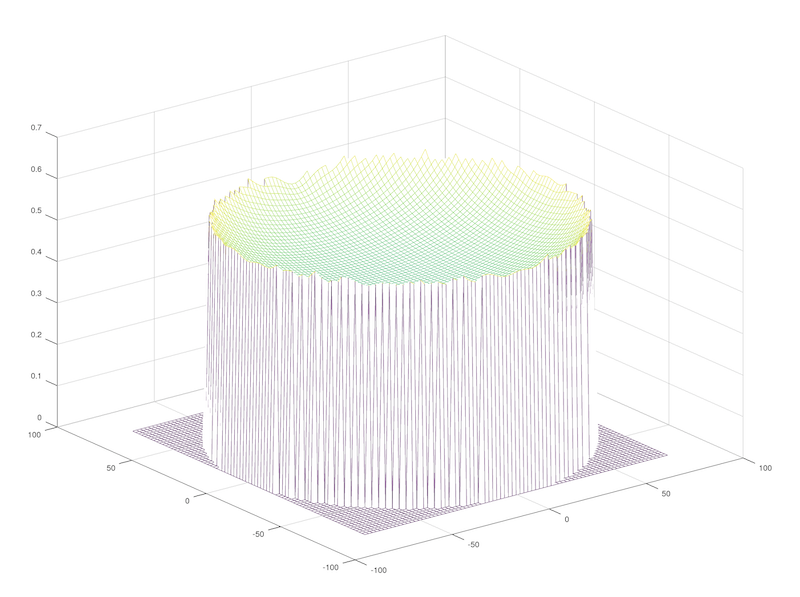
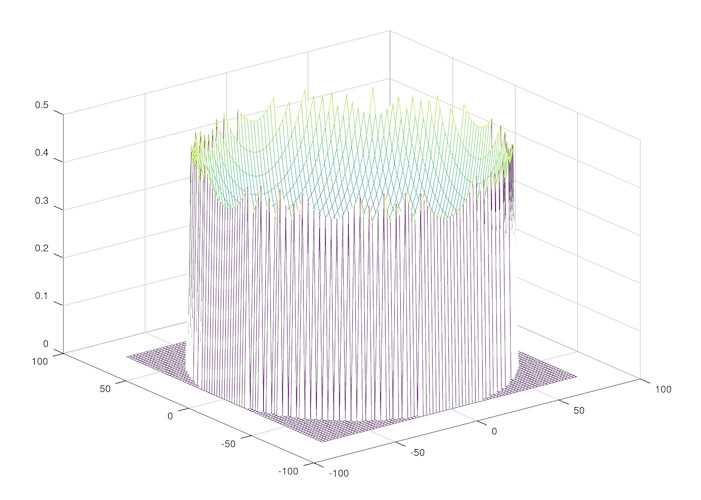
Fixed computation

diff --git a/simulator.m b/simulator.m
@@ -22,10 +22,14 @@ format long;
 # x = position of the point for which we want to know the intensity along the x-axis
 # y = position of the point for which we want to know the intensity along the y-axis
 function I = intensity(n, xLED, yLED, r, h, theta, x, y)
+  # Exclude points outside a circle of radius r
   if norm([x y] - [0 0]) > r
     I = 0;
     return;
   endif
+  
+  # Vector normal to the background surface
+  N = [0 0 -1];
 
   intensities = [];
 
@@ -39,9 +43,17 @@ function I = intensity(n, xLED, yLED, r, h, theta, x, y)
     # The viewing angle LED i is seen by the x, y point
     # See https://www.mathworks.com/matlabcentral/answers/328240-calculate-the-3d-angle-between-two-vectors
     alpha = atan2(norm(cross(v1, v2)), dot(v1, v2));
-    # Compute the intensity caused by LED i using the inverse square law, and by
-    # taking into account the viewing angle since LEDs emit a directional beam of light.
-    intensities(i) = (1 / norm([x y 0] - [xLED(i) yLED(i) h])) * exp(-(alpha^2/(2*theta^2)));
+    # The angle between N and the vector connecting the x, y point and LED i
+    beta = atan2(norm(cross(v1, N)), dot(v1, N));
+    # Compute the intensity caused by LED i:
+    # 1) by taking into account the viewing angle since LEDs emit a directional beam of light
+    #    (we use a Gaussian model here, which is just an approximation)
+    # 2) using the inverse square law since light flux decreases inversely to the square of
+    #    the distance from the light source
+    # 3) by taking into account the angle between the light ray and the background surface.
+    #    The steeper the angle, the dimmer the point (which is why we have seasons on Earth...)
+    # The 3 factors below are in that order:
+    intensities(i) = exp(-(alpha^2/(2*theta^2))) * (1 / norm([x y 0] - [xLED(i) yLED(i) h])) * cos(beta);
   endfor
 
   I = sum(intensities);
@@ -61,7 +73,7 @@ r = 78.5;
 # Standard values seem to be:
 #   - 16.5 mm for "standard" LED strips
 #   - 4.2mm for "high density" LED strips
-l = 16.5;
+l = 4.2;
 
 # Height of the strip over reflective background sheet in mm
 h = 5;
@@ -109,6 +121,7 @@ for x = tx
   for y = ty
      val = intensity(n, xLED, yLED, r, h, theta, x, y);
      tz(xindex, yindex) = val;
+     # Exclude 0 since the intensity function returns 0 for points outside the circle...
      if val > 0 && val < minval
        minval = val;
      endif

diff --git a/README.md b/README.md
@@ -4,15 +4,25 @@ I am planning to build a flat field light panel using an LED strip placed agains
 
 I was wondering how uniform the light intensity put out by such a panel would be. My expectation is that we should see obvious differences in brightness, especially around the LEDs themselves, even though they would not be directly visible thanks to that small lip.
 
-To find out whether this would even work, I built this GNU Octave simulation. The calculation is pretty complicated. It uses the inverse square law, and also attempts to take into account the directionality of the light beam emitted by a single LED (using a simple Gaussian model). Here is the result using the default values, which match my telescope:
+To find out whether this would even work, I built this GNU Octave simulation. The calculation is pretty complicated. It involves:
+
+* the viewing angle, since LEDs emit a directional beam of light (I use a Gaussian model here, which is just an approximation)
+* the inverse square law, since light flux decreases inversely to the square of the distance from the light source
+* the angle between the light ray and the background surface — the steeper the angle, the dimmer the point, which is why we have seasons on Earth...
+
+Here is the result using the default values, which match my telescope:
 
 ```bash
 $ octave simulator.m
-Maximum intensity difference is 32.5%
+Maximum intensity difference is 81.5%
 ```
 
 ![Rendering of light intensity map](result.png)
 
-This result shows that, indeed, a strong diffuser (for example, in the form of an opaque acrylic sheet) placed on top of the light panel, is required to provide good enough uniformity to get good flats.
+This result shows that this is not a workable solution as-is. And indeed, I built a prototype of this flat panel system, and what you see is a very bright ring that cannot be made into a uniform surface, no matter how many diffusing sheets you place in front of it.
 
-As always, you can play with the parameters involved. They are documented in the source file (`simulator.m`)
+In order to obtain a more uniform result, we need to look at what the manufacturers of flat panel LED TVs do. What we need is to use a Light Guide Panel (LGP), which is usually a sheet of acrylic mixed with reflecting particles, or processed with a laser engraver to create reflecting cavities. It is lit along its edges by the LED strip.
+
+I found a reasonably affordable sheet of this kind of material [here](https://www.inventables.com/technologies/light-guide-acrylic-sheet). You may also purchase a light panel, and tear it down to get that component. Then, you can cut a circle out of it (using a router and a guide) to fit it into your flat panel.
+
+You can play with the parameters involved. They are documented in the source file (`simulator.m`)
